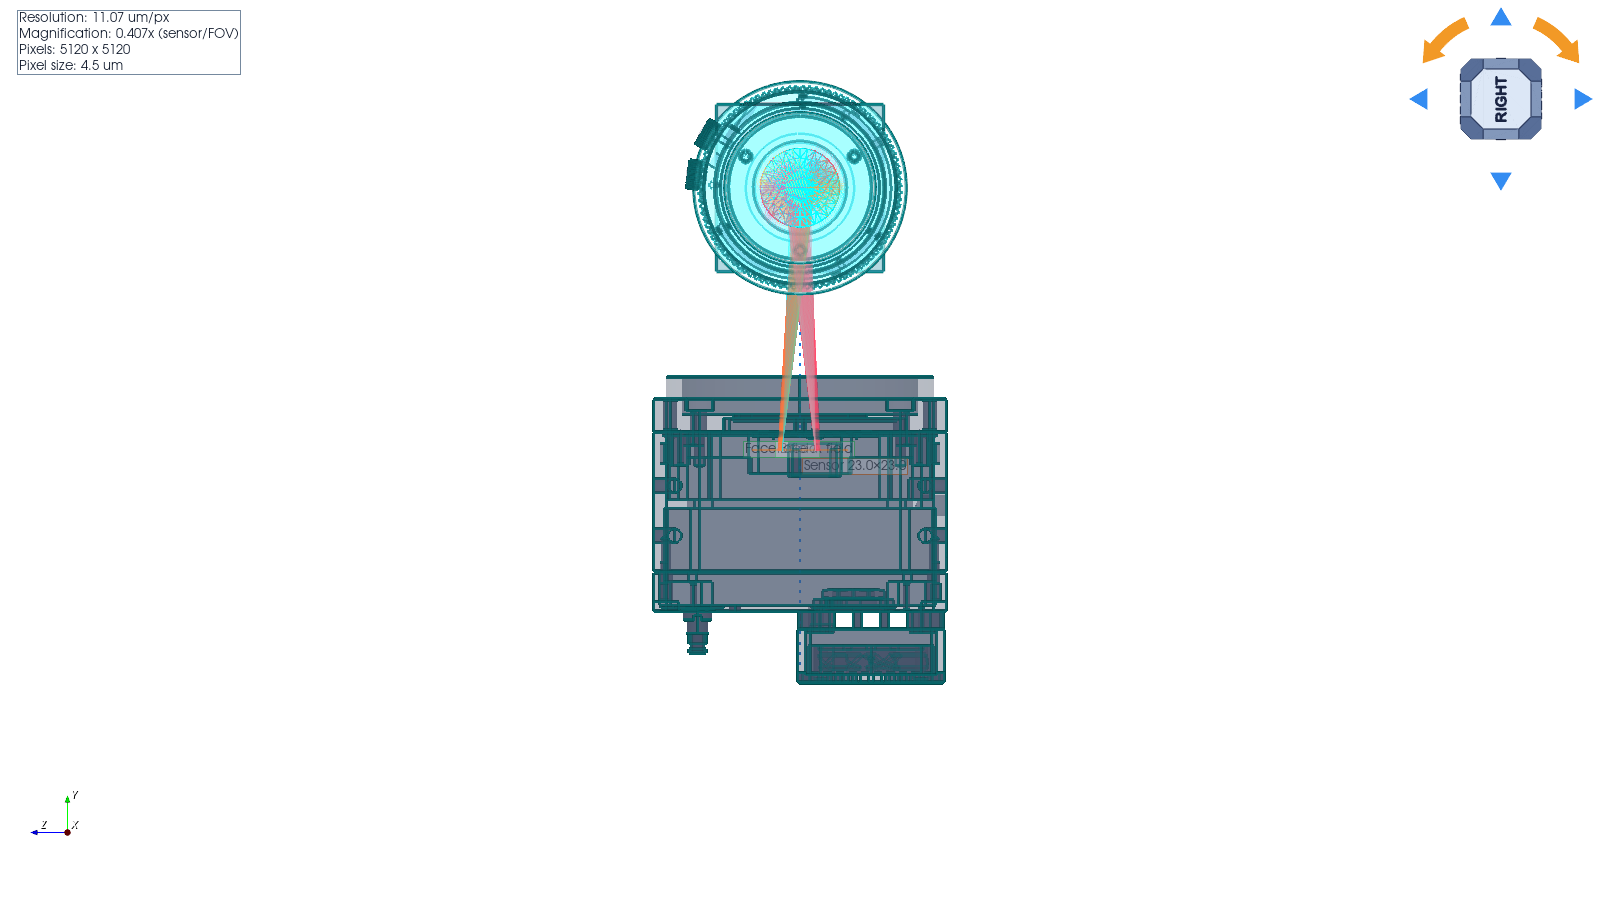
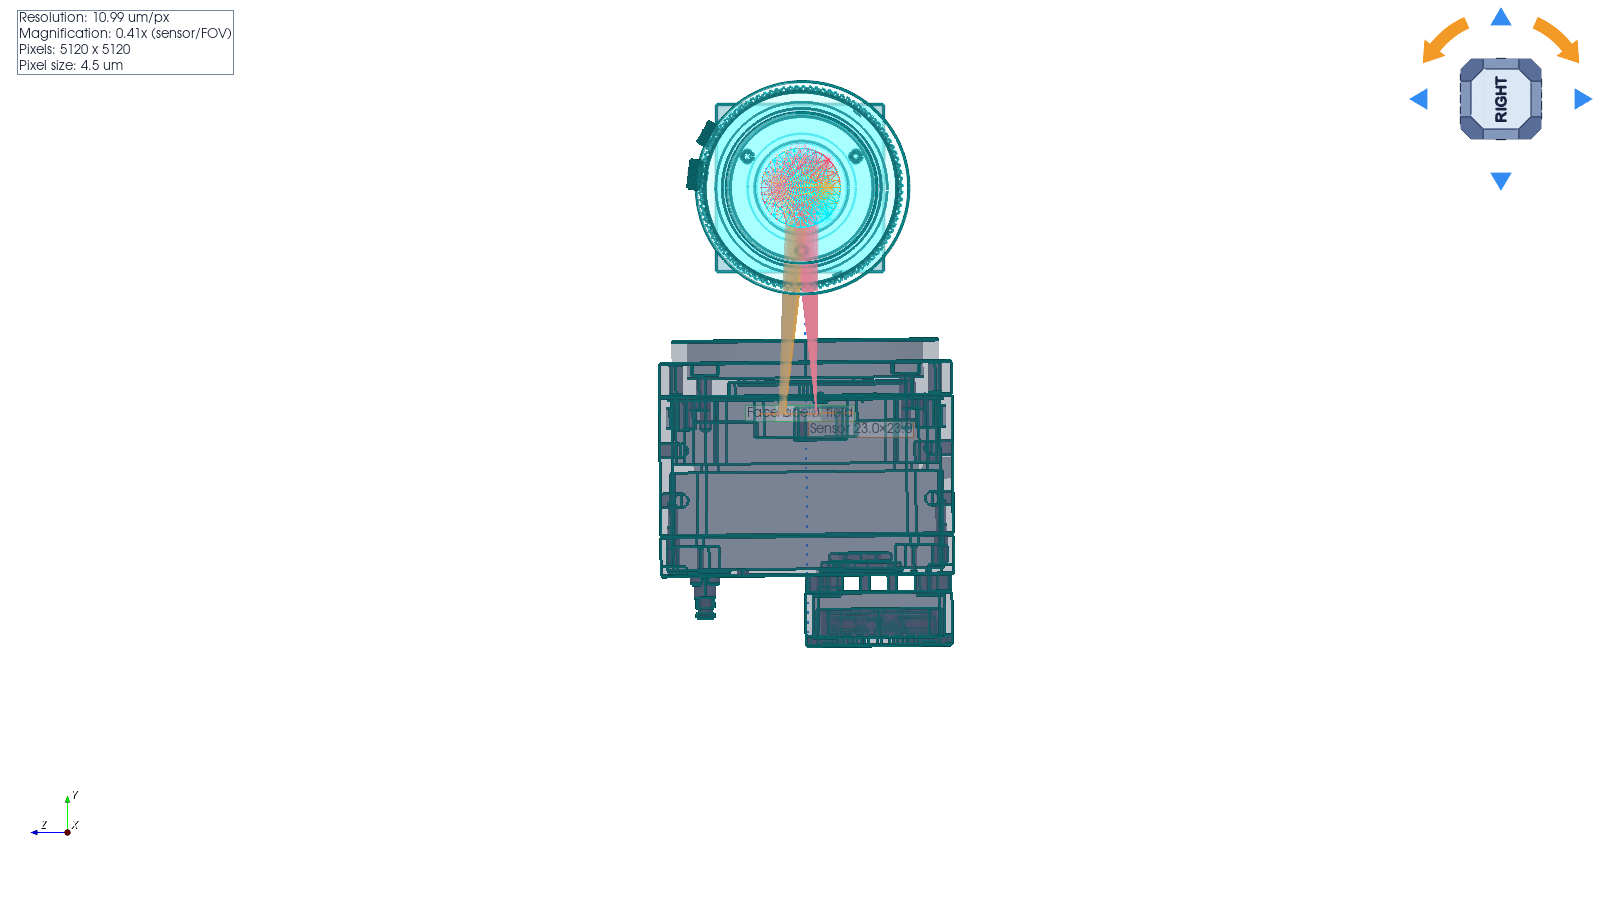
Open 3D: 0695 complete -- strips restamped, guard 16/16, penta smoke green
M90aPro close-out of the vendor-true rebuild. Sweep on the new geometry:
arm A band y -4..+3 at a uniform 74% reach with ZERO per-field landing
spread (strip z -30.14..-27.27), and the 0694 x-asymmetry is GONE -- both
object x extremes land razor-sharp just inside the die. Arm B ~80% reach,
strip z -23.69..-18.36 (blur pending the 0696 launcher). Strips restamped
about the live sensor centre (-272.65, -1.2, -26.4); guard A8b re-pinned;
FULL 0672 guard 16/16 PASS; penta smoke 505/508/509 PASS; user-view render
verified (both arms, six cones into the camera). bugs/0695 doc finalized
with the owed list (0696 faceB launcher, station-rotate verb, baseline
re-cut).

Claude-Session: https://claude.ai/code/session_01SuW8U8ERU6dgJbzEMv2EFu

Changed region(s): [[0.4062, 0.0933, 0.5938, 0.7778], [0.0938, 0.0311, 0.1562, 0.0622]]

diff --git a/bugs/om05a_folded_0695_wip.py b/bugs/om05a_folded_0695_wip.py
@@ -69,22 +69,22 @@ SETTINGS = {'object_mode': 'Finite',
                        'half_width': 27.5,
                        'v_lo': -5.25,
                        'v_hi': 3.1,
-                       'image_strip': {'center': [-272.65, -9.9, -25.0],
+                       'image_strip': {'center': [-272.65, -1.2, -26.4],
                                        'axis_v': [0.0, 0.0, 1.0],
                                        'half_width': 11.52,
-                                       'v_lo': -5.3,
-                                       'v_hi': -2.1}},
+                                       'v_lo': -3.74,
+                                       'v_hi': -0.87}},
                       {'name': 'Face B field',
                        'center': [0.0, 0.0, -50.0],
                        'axis': [0.0, 0.0, 1.0],
                        'half_width': 27.5,
                        'v_lo': -5.25,
                        'v_hi': 3.1,
-                       'image_strip': {'center': [-272.65, -9.9, -25.0],
+                       'image_strip': {'center': [-272.65, -1.2, -26.4],
                                        'axis_v': [0.0, 0.0, 1.0],
                                        'half_width': 11.52,
-                                       'v_lo': 2.2,
-                                       'v_hi': 6.8}}],
+                                       'v_lo': 2.71,
+                                       'v_hi': 8.04}}],
  'launch_pupil_aim_offset': [0.0, 0.0],
  'analysis_surface': 'Auto',
  'analysis_branch_filter': 'All paths',
@@ -174,31 +174,26 @@ SETTINGS = {'object_mode': 'Finite',
  'metal_catalogs': [],
  'optimization_workers': 'Auto',
  'selected_operands': ['Spot RMS'],
- 'operands': {'EFFL': {'weight': '1',
-                       'target': '100',
-                       'wavelength': '0.55',
-                       'field': '0',
-                       'surface': 'Auto'},
-              'Thickness penalty': {'weight': '1',
-                                    'target': '0.1',
-                                    'wavelength': '0.55',
-                                    'field': '0',
-                                    'surface': 'Auto'},
-              'Exit pupil z': {'weight': '1',
-                               'target': '0',
-                               'wavelength': '0.55',
-                               'field': '0',
-                               'surface': 'Auto'},
+ 'operands': {'Spot RMS': {'weight': '1',
+                           'target': '0',
+                           'wavelength': '0.55',
+                           'field': '0',
+                           'surface': 'Auto'},
+              'Wavefront RMS': {'weight': '1',
+                                'target': '0',
+                                'wavelength': '0.55',
+                                'field': '0',
+                                'surface': 'Auto'},
               'Entrance pupil z': {'weight': '1',
                                    'target': '0',
                                    'wavelength': '0.55',
                                    'field': '0',
                                    'surface': 'Auto'},
-              'Spot RMS': {'weight': '1',
-                           'target': '0',
-                           'wavelength': '0.55',
-                           'field': '0',
-                           'surface': 'Auto'},
+              'Exit pupil z': {'weight': '1',
+                               'target': '0',
+                               'wavelength': '0.55',
+                               'field': '0',
+                               'surface': 'Auto'},
               'MTF @ freq': {'weight': '1',
                              'target': '0.5',
                              'wavelength': '0.55',
@@ -209,16 +204,21 @@ SETTINGS = {'object_mode': 'Finite',
                              'frequency': '5',
                              'mtf_mode': 'Average',
                              'mtf_algorithm': 'Diffraction FFT'},
-              'Wavefront RMS': {'weight': '1',
-                                'target': '0',
-                                'wavelength': '0.55',
-                                'field': '0',
-                                'surface': 'Auto'},
+              'Thickness penalty': {'weight': '1',
+                                    'target': '0.1',
+                                    'wavelength': '0.55',
+                                    'field': '0',
+                                    'surface': 'Auto'},
               'Magnification': {'weight': '1',
                                 'target': '1',
                                 'wavelength': '0.55',
                                 'field': '0',
-                                'surface': 'Auto'}},
+                                'surface': 'Auto'},
+              'EFFL': {'weight': '1',
+                       'target': '100',
+                       'wavelength': '0.55',
+                       'field': '0',
+                       'surface': 'Auto'}},
  'tolerance_solve_presets': [],
  'tolerance_manufacturing_templates': [],
  'active_tolerance_solve_preset': ''}

diff --git a/bugs/0692_stamp_strips.py b/bugs/0692_stamp_strips.py
@@ -1,9 +1,9 @@
 """0692: author the MEASURED sensor cover strips into the om05a bands.
 
-Numbers from bugs/0692_sensor_reach_sweep.py (post-seat, focused scene):
-  arm A clean landings  z -30.3 .. -27.1  (object y -4.5..+3, razor spots)
-  arm B clean landings  z -22.8 .. -18.2  (compromise focus, ~0.9 mm blur)
-Sensor row centre [-272.65, -9.9, -25.0], die 23.04 x 23.04 in world x/z.
+Numbers from bugs/0692_sensor_reach_sweep.py (0695 vendor-true rebuild):
+  arm A clean landings  z -30.14 .. -27.27  (object y -4..+3, ZERO per-field spread)
+  arm B clean landings  z -23.69 .. -18.36  (~1.6 mm blur pending the 0696 launcher)
+Sensor row centre [-272.65, -1.2, -26.4], die 23.04 x 23.04 in world x/z.
 The coverage overlay draws each strip's two dashed edges (user: "draw 2 dotted
 line edge at the Sensor to indicate actual cover area").
 """
@@ -23,8 +23,8 @@ def main():
     bands = list(getattr(editor, "layout_object_fov_bands", []) or [])
     assert len(bands) == 2, f"expected 2 bands, found {len(bands)}"
     strips = {
-        "Face A field": {"v_lo": -5.3, "v_hi": -2.1},
-        "Face B field": {"v_lo": 2.2, "v_hi": 6.8},
+        "Face A field": {"v_lo": -3.74, "v_hi": -0.87},
+        "Face B field": {"v_lo": 2.71, "v_hi": 8.04},
     }
     stamped = 0
     for band in bands:
@@ -32,7 +32,7 @@ def main():
         if strip is None:
             continue
         band["image_strip"] = {
-            "center": [-272.65, -9.9, -25.0],
+            "center": [-272.65, -1.2, -26.4],
             "axis_v": [0.0, 0.0, 1.0],
             "half_width": 11.52,
             "v_lo": strip["v_lo"],

diff --git a/KrakenOS/UI/validate_open3d_0672_om05a_folded_scene.py b/KrakenOS/UI/validate_open3d_0672_om05a_folded_scene.py
@@ -237,19 +237,19 @@ def _check_scene(ok, notes) -> None:
             len(strips) == 2
             and all(
                 abs(float(s.get("center", [99, 99, 99])[0]) + 272.65) < 0.5
-                and abs(float(s.get("center", [99, 99, 99])[1]) + 9.9) < 0.5
+                and abs(float(s.get("center", [99, 99, 99])[1]) + 1.2) < 0.5
                 and abs(float(s.get("half_width", 0.0)) - 11.52) < 0.1
                 for s in strips
             )
-            and abs(float(strips[0].get("v_lo", 99.0)) + 5.3) < 0.6
-            and abs(float(strips[0].get("v_hi", 99.0)) + 2.1) < 0.6
-            and abs(float(strips[1].get("v_lo", 99.0)) - 2.2) < 0.6
-            and abs(float(strips[1].get("v_hi", 99.0)) - 6.8) < 0.6
+            and abs(float(strips[0].get("v_lo", 99.0)) + 3.74) < 0.6
+            and abs(float(strips[0].get("v_hi", 99.0)) + 0.87) < 0.6
+            and abs(float(strips[1].get("v_lo", 99.0)) - 2.71) < 0.6
+            and abs(float(strips[1].get("v_hi", 99.0)) - 8.04) < 0.6
         )
         ok(
             strip_ok,
             "A8b: both bands author their MEASURED sensor cover strip on the die "
-            "(A z -30.3..-27.1, B z -22.8..-18.2 about centre -25)",
+            "(0695 vendor-true: A z -30.1..-27.3, B z -23.7..-18.4 about centre -26.4)",
         )
         # bugs/0695: the sensor plane is derived LIVE from the Image row -- the
         # vendor-true rebuild moved it (and any future refocus moves it again).

diff --git a/bugs/0695_vendor_true_prisms.md b/bugs/0695_vendor_true_prisms.md
@@ -1,4 +1,4 @@
-# 0695 — vendor-true prism rebuild (WIP: commit-and-continue on M90aPro)
+# 0695 — vendor-true prism rebuild (COMPLETE; 0696 faceB launcher owed)
 
 ## User architecture (flag series 2026-09-02 + clarification)
 Per side, from the Object Plane: (1) FIRST RA MIRROR only (the extra right-angle
@@ -50,14 +50,23 @@ REFOCUS (bugs/0695_refocus.py) -> census (bugs/0694_focus_census.py).
   disk; world-mode builders outside the sampler context killed the B arm).
   => bugs/0696: give faceB a FIRST-CLASS launcher aimed through the B train.
 
-## Remaining (continue on M90aPro)
-1. Strips restamp: bugs/0692_sensor_reach_sweep.py (patched for the live
-   sensor plane) -> stamp via bugs/0692_stamp_strips.py with NEW numbers ->
-   re-pin guard A8b (still pins the old strips).
-2. Guard: A1/A3/B1/B2/B5 re-pinned this commit (12 solids, new B_TRAIN names,
-   live sensor_y) — RUN IT; A8b will fail until step 1.
-3. Render with the user's layout (bugs/0692_snap_verify.py pattern) + eyeball.
-4. Doc finalization + penta phases 505/508/509 smoke + full re-cut later.
-5. bugs/0696 faceB launcher rework (the 19.2 mm B focus).
-6. Backlog: whole-station rotate verb; env-gated KRAKEN_0695_STASH_DEBUG prints
-   remain in trace_preview.py (harmless, useful for 0696).
+## Completion (M90aPro, 2026-09-02 evening)
+Sweep on the vendor-true scene (sensor centre (-272.65, -1.2, -26.4)):
+- arm A: band y -4..+3 at a uniform 266/361 (74%), ZERO per-field landing
+  spread, strip z -30.14..-27.27. The 0694 x-asymmetry is GONE: object
+  x = -27.5 AND +27.5 both land razor-sharp just inside the die
+  (-283.91 / -261.39 vs die -284.17..-261.13).
+- arm B: 269-302/361 (~80%), strip z -23.69..-18.36 (~1.6 mm blur pending
+  0696).
+Strips restamped + guard A8b re-pinned; FULL GUARD 16/16 PASS (A1 twelve
+solids incl. LED panels, new B_TRAIN, live sensor plane, B1 794/794 on-strip,
+B2 waist 0.4 um at -1.15, B5 faceB 633).
+
+## Owed
+- bugs/0696: first-class faceB launcher (B arm's absolute focus 19.2 mm late;
+  the mirrored-launch stash reflects a non-final launch). All measurements in
+  this doc's Measured state section.
+- Whole-station rotate verb (production Top/Bottom station).
+- Penta full baseline re-cut for phases 500-509.
+- env-gated KRAKEN_0695_STASH_DEBUG prints remain in trace_preview.py
+  (harmless; useful for 0696).
